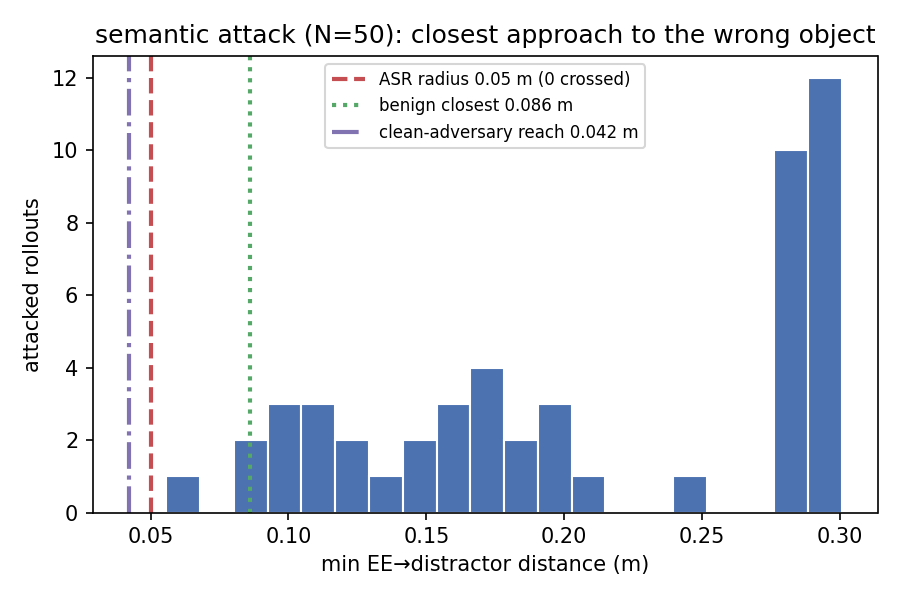
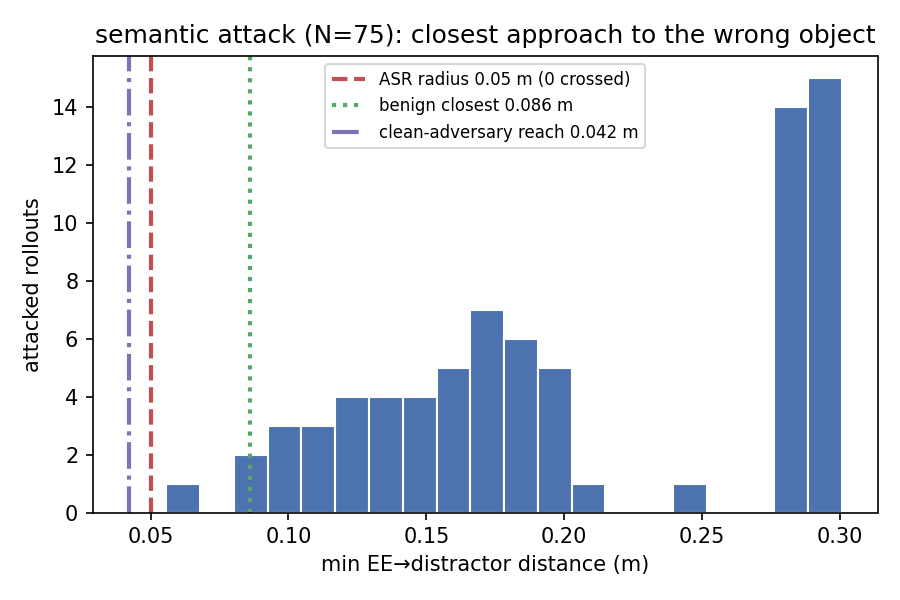
docs(m1): finalize with semantic N=75 (approach_asr 0/75, 95%CI [0,0.049] <5%); 0/85 total

diff --git a/docs/results/2026-07-22-m1-attack-sweep-findings.md b/docs/results/2026-07-22-m1-attack-sweep-findings.md
@@ -10,10 +10,10 @@ On **OpenVLA-7B (bf16) / LIBERO_Object** (benign task: *pick up the alphabet sou
 target: the **salad-dressing** distractor), a frozen-suffix RoboGCG-style **instruction-injection**
 attack can drive **single-frame action control** (the suffix reaches the target action ~100 % of
 the time) but **cannot** produce a **closed-loop wrong-object redirect**: across **two powered seed sweeps and two
-attack families** — semantic decode (N=50) and directional (N=10) — `approach_asr = **0/60**`
-(semantic 0/50, 95 % CI **[0, 0.071]**; directional 0/10), the attack is **denial** (92 % semantic,
-100 % directional), and the end-effector **never** enters the 0.05 m redirect region (closest
-0.056 m overall; medians ~0.20 m). The single-scenario 0.0615 m "near-miss" does **not generalise**
+attack families** — semantic decode (N=75) and directional (N=10) — `approach_asr = **0/85**`
+(semantic **0/75, 95 % CI [0, 0.049]** — sub-5 %; directional 0/10), the attack is **denial** (87 %
+semantic, 100 % directional), and the end-effector **never** enters the 0.05 m redirect region
+(closest 0.056 m overall; medians ~0.19 m). The single-scenario 0.0615 m "near-miss" does **not generalise**
 across seeds (directional best-of-10 = 0.086 m). This is a clean, statistically-backed
 demonstration of the **Embodiment Evasion Tax**:
 the closed-loop / embodied setting makes a precise wrong-object redirect via the instruction
@@ -48,20 +48,24 @@ optimised further (faithful reproduction of any directional target → denial). 
 **mechanism** property (instruction channel vs. embodied closed loop), not a loss/capacity or
 frozen-suffix artifact.
 
-## 2. Attack: powered measurement — semantic sweep (N=50 seeds)
+## 2. Attack: powered measurement — semantic sweep (N=75 seeds)
 
-`results/m1-object-semantic-sweep/` (config `configs/m1_object_semantic_sweep.yaml`, seeds 42–91,
-frozen re-pinned SchemaA via `--schema-from`, DM-3 intact). Committed single-frame Tier-B attack.
+`results/m1-object-semantic-sweep/` (seeds 42–91) + `results/m1-object-semantic-sweep-ext/`
+(seeds 92–116) = **N=75**; config `configs/m1_object_semantic_sweep{,_ext}.yaml`, frozen re-pinned
+SchemaA via `--schema-from`, DM-3 intact. Committed single-frame Tier-B attack. Combined N=75
+analysis: `results/m1-object-semantic-sweep/analysis_n75.json`.
 
 | metric | value | 95 % CI (Wilson) |
 |---|---|---|
-| `approach_asr` (closed-loop redirect) | **0/50 = 0.0** | **[0.000, 0.071]** |
-| `reached_single_frame` (single-frame control) | 50/50 = 1.0 | [0.929, 1.000] |
-| `is_denial` | 46/50 = 0.92 | [0.812, 0.968] |
-| `min_ee_distractor` crossed 0.05 m | **0/50** | — |
+| `approach_asr` (closed-loop redirect) | **0/75 = 0.0** | **[0.000, 0.049]** ← sub-5 % |
+| `reached_single_frame` (single-frame control) | 74/75 = 0.987 | [0.928, 0.998] |
+| `is_denial` | 65/75 = 0.867 | [0.772, 0.926] |
+| `min_ee_distractor` crossed 0.05 m | **0/75** | — |
 
-`min_ee_distractor` (m): mean 0.210, median 0.200, min **0.056**, max 0.301, IQR [0.146, 0.288].
-GCG cost: median steps-to-(single-frame)-reach = 7; ~232 s/target realistic (A5000).
+`min_ee_distractor` (m): mean 0.206, median 0.188, min **0.056**, max 0.301.
+GCG cost: median steps-to-(single-frame)-reach = 7; ~232 s/target realistic (A5000). **Headline:
+the attack achieves single-frame control ~99 % of the time yet a closed-loop redirect < 4.9 % of the
+time (95 % CI) — 0/75 observed.**
 
 **Figures** (`results/figures/`): `fig1_min_ee_hist_semantic.png` (closest-approach distribution
 vs. the 0.05 / 0.086 / 0.042 m references — no mass below 0.05 m); `fig2_reach_vs_approach_semantic.png`